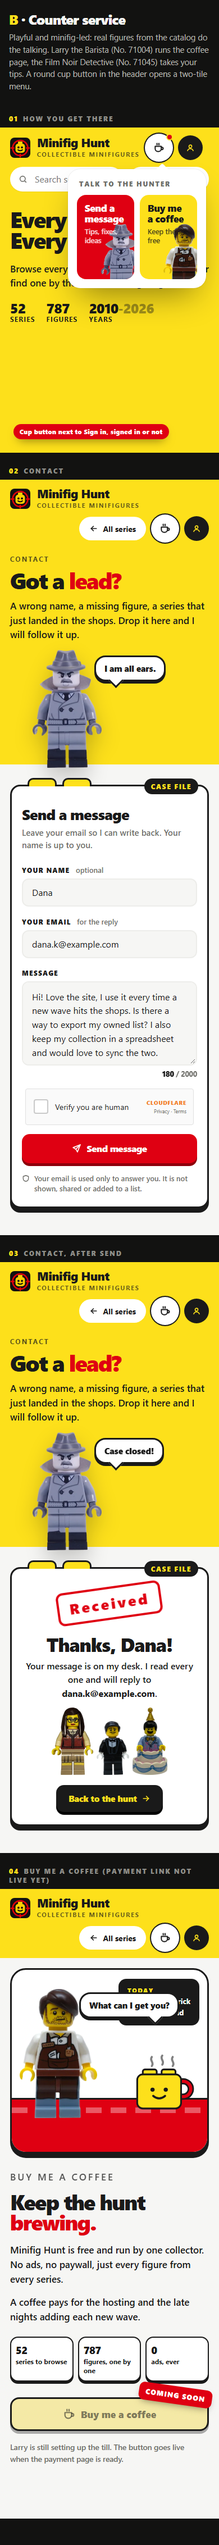
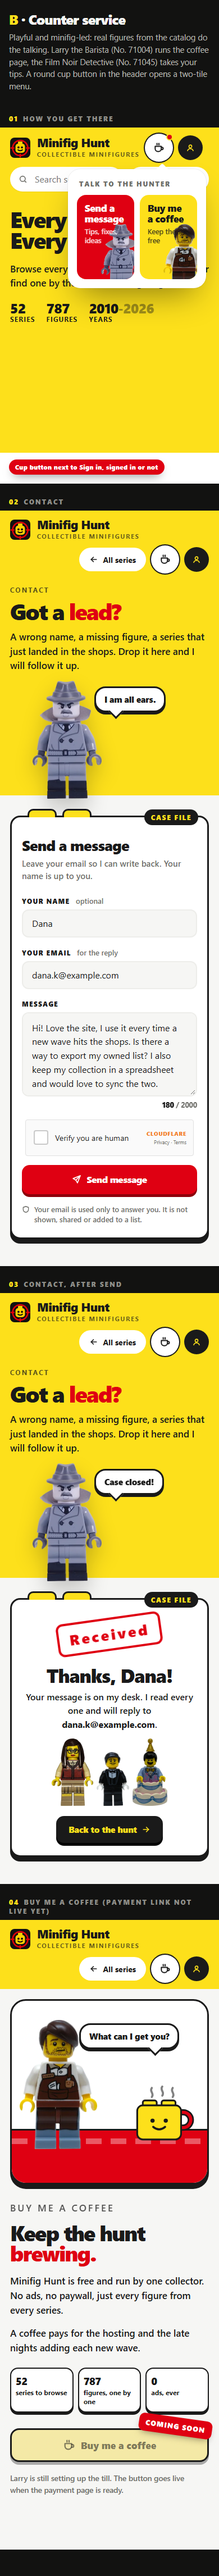
V2-15: fix overlaps and contrast in mockups, re-shoot
A: footer annotation no longer covers the Contact pill; Free, no ads chip
regains its ink fill. Phone: annotations drop into the flow, disabled coffee
button stays on one line, B hides the Today card under the speech bubble.

Changed region(s): [[0.0, 0.1556, 1.0, 0.9647], [0.0308, 0.0, 0.9538, 0.1245], [0.1231, 0.6535, 0.1538, 0.6846]]

diff --git a/mockups/V2-15/a.html b/mockups/V2-15/a.html
@@ -66,7 +66,9 @@ textarea.in { height:150px; padding:14px 16px; line-height:1.55; resize:vertical
   .ts { width:100%; max-width:300px; align-self:center; }
   .go { width:100%; }
   .soon { width:100%; justify-content:center; }
-  .ann { font-size:11px; }
+  .ann { font-size:11px; position:static; display:inline-block; margin:12px 16px 16px; }
+  .soon { white-space:nowrap; padding:0 14px; gap:8px; font-size:15px; }
+  .soon em { font-size:10px; padding:4px 7px; }
 }
 /* ---- Direction A CSS: this block is what would ship ---- */
 .a-foot { background:var(--ink); color:var(--white); }
@@ -113,6 +115,7 @@ textarea.in { height:150px; padding:14px 16px; line-height:1.55; resize:vertical
 .a-coffee p { font-size:16.5px; line-height:1.6; margin:0 0 14px; font-weight:500; max-width:56ch; }
 .a-coffee .facts { margin:20px 0 26px; }
 .a-coffee .facts .fact { background:var(--white); border:1px solid var(--grey-100); }
+.a-coffee .facts .fact.dark { background:var(--ink); color:var(--lego-yellow); border-color:var(--ink); }
 .a-coffee .hint2 { font-size:13.5px; font-weight:600; color:var(--grey-500); margin:12px 0 0; }
 .a-thanks { background:var(--lego-yellow); border-radius:24px; padding:28px; }
 .a-thanks h3 { margin:0 0 8px; font-size:20px; font-weight:800; letter-spacing:-.02em; }
@@ -130,7 +133,7 @@ textarea.in { height:150px; padding:14px 16px; line-height:1.55; resize:vertical
 </style></head>
 <body><div class="board">
 <div class="board-h"><div><h1><span>A</span> &middot; Catalog card</h1><p>Quiet and on-brand: the same yellow band and big headline as the catalog, one calm grey card per page. Both pages live in a new ink footer on every page, so they never compete with search in the header.</p></div></div>
-<p class="tag"><b>01</b>How you get there</p><div class="page"><main class="wrap"><div class="rule"><span><b>52 series</b></span><span>Newest first</span></div><div class="a-tease"><ul class="grid"><li class="tile"><a class="tile-link" href="#"><div class="art"><img src="../../app/public/cards/71053.png" alt=""></div></a><div class="meta"><div class="meta-row"><span class="num">No. 71053 &middot; 2026</span><span class="count-badge">12 figures</span></div><h2><a href="#">Shrek</a></h2></div></li><li class="tile"><a class="tile-link" href="#"><div class="art"><img src="../../app/public/cards/71052.png" alt=""></div></a><div class="meta"><div class="meta-row"><span class="num">No. 71052 &middot; 2026</span><span class="count-badge">12 figures</span></div><h2><a href="#">Series 29 Minifigures</a></h2></div></li><li class="tile"><a class="tile-link" href="#"><div class="art"><img src="../../app/public/cards/71051.png" alt=""></div></a><div class="meta"><div class="meta-row"><span class="num">No. 71051 &middot; 2026</span><span class="count-badge">12 figures</span></div><h2><a href="#">Series 28 Minifigures</a></h2></div></li></ul></div></main><footer class="a-foot"><div class="wrap"><a class="brand" href="#"><span class="brand-mark" aria-hidden="true"><img src="../../app/public/favicon.svg" alt="" width="36" height="36"></span><span><b>Minifig Hunt</b><small>Collectible Minifigures</small></span></a><nav aria-label="Site"><a href="#"><svg width="16" height="16" viewBox="0 0 24 24" fill="none" stroke="currentColor" stroke-width="2.4" stroke-linecap="round" stroke-linejoin="round" aria-hidden="true"><rect x="3" y="5" width="18" height="14" rx="3"/><path d="m4 7 8 6 8-6"/></svg>Contact</a><a class="cup" href="#"><svg width="16" height="16" viewBox="0 0 24 24" fill="none" stroke="currentColor" stroke-width="2.4" stroke-linecap="round" stroke-linejoin="round" aria-hidden="true"><path d="M4 9h13v5a6 6 0 0 1-6 6h-1a6 6 0 0 1-6-6V9Z"/><path d="M17 11h1.5a2.5 2.5 0 0 1 0 5H17"/><path d="M8 2.8c-.8 1 .8 2 0 3.2M12 2.8c-.8 1 .8 2 0 3.2"/></svg>Buy me a coffee</a></nav><div class="fine"><span>52 series &middot; 787 figures &middot; 2010-2026</span><span>Fan-made site, not affiliated with the LEGO Group.</span></div></div></footer><span class="ann" style="right:250px;bottom:118px">New footer, on every page</span></div>
+<p class="tag"><b>01</b>How you get there</p><div class="page"><main class="wrap"><div class="rule"><span><b>52 series</b></span><span>Newest first</span></div><div class="a-tease"><ul class="grid"><li class="tile"><a class="tile-link" href="#"><div class="art"><img src="../../app/public/cards/71053.png" alt=""></div></a><div class="meta"><div class="meta-row"><span class="num">No. 71053 &middot; 2026</span><span class="count-badge">12 figures</span></div><h2><a href="#">Shrek</a></h2></div></li><li class="tile"><a class="tile-link" href="#"><div class="art"><img src="../../app/public/cards/71052.png" alt=""></div></a><div class="meta"><div class="meta-row"><span class="num">No. 71052 &middot; 2026</span><span class="count-badge">12 figures</span></div><h2><a href="#">Series 29 Minifigures</a></h2></div></li><li class="tile"><a class="tile-link" href="#"><div class="art"><img src="../../app/public/cards/71051.png" alt=""></div></a><div class="meta"><div class="meta-row"><span class="num">No. 71051 &middot; 2026</span><span class="count-badge">12 figures</span></div><h2><a href="#">Series 28 Minifigures</a></h2></div></li></ul></div></main><footer class="a-foot"><div class="wrap"><a class="brand" href="#"><span class="brand-mark" aria-hidden="true"><img src="../../app/public/favicon.svg" alt="" width="36" height="36"></span><span><b>Minifig Hunt</b><small>Collectible Minifigures</small></span></a><nav aria-label="Site"><a href="#"><svg width="16" height="16" viewBox="0 0 24 24" fill="none" stroke="currentColor" stroke-width="2.4" stroke-linecap="round" stroke-linejoin="round" aria-hidden="true"><rect x="3" y="5" width="18" height="14" rx="3"/><path d="m4 7 8 6 8-6"/></svg>Contact</a><a class="cup" href="#"><svg width="16" height="16" viewBox="0 0 24 24" fill="none" stroke="currentColor" stroke-width="2.4" stroke-linecap="round" stroke-linejoin="round" aria-hidden="true"><path d="M4 9h13v5a6 6 0 0 1-6 6h-1a6 6 0 0 1-6-6V9Z"/><path d="M17 11h1.5a2.5 2.5 0 0 1 0 5H17"/><path d="M8 2.8c-.8 1 .8 2 0 3.2M12 2.8c-.8 1 .8 2 0 3.2"/></svg>Buy me a coffee</a></nav><div class="fine"><span>52 series &middot; 787 figures &middot; 2010-2026</span><span>Fan-made site, not affiliated with the LEGO Group.</span></div></div></footer><span class="ann" style="right:250px;bottom:150px">New footer, on every page</span></div>
 <p class="tag"><b>02</b>Contact</p><div class="page"><header class="band a-band"><div class="wrap"><div class="band-top"><a class="brand" href="#"><span class="brand-mark" aria-hidden="true"><img src="../../app/public/favicon.svg" alt="" width="36" height="36"></span><span><b>Minifig Hunt</b><small>Collectible Minifigures</small></span></a><a class="back" href="#"><svg width="16" height="16" viewBox="0 0 24 24" fill="none" stroke="currentColor" stroke-width="2.6" stroke-linecap="round" stroke-linejoin="round" aria-hidden="true"><path d="M19 12H5"/><path d="m11 6-6 6 6 6"/></svg><span class="back-t">All series</span></a><div class="acct"><button type="button" class="pill-in"><svg width="16" height="16" viewBox="0 0 24 24" fill="none" stroke="currentColor" stroke-width="2.4" stroke-linecap="round" stroke-linejoin="round" aria-hidden="true"><circle cx="12" cy="8.5" r="3.8"/><path d="M4.5 20c1.2-3.6 4-5.4 7.5-5.4s6.3 1.8 7.5 5.4"/></svg><span class="t">Sign in</span></button></div></div><div class="band-hero"><h1 class="big">Say <em>hello.</em></h1><div><p class="lede">Spotted a wrong name, a missing figure, or a series that is not here yet? Tell me, and I will fix it.</p></div></div></div></header><main class="wrap a-main"><section class="a-card"><h2>Send a message</h2><p class="sub">Everything here is optional except your email and the message.</p>
 <form class="cf " onsubmit="return false">
   <div class="row2">

diff --git a/mockups/V2-15/b.html b/mockups/V2-15/b.html
@@ -66,7 +66,9 @@ textarea.in { height:150px; padding:14px 16px; line-height:1.55; resize:vertical
   .ts { width:100%; max-width:300px; align-self:center; }
   .go { width:100%; }
   .soon { width:100%; justify-content:center; }
-  .ann { font-size:11px; }
+  .ann { font-size:11px; position:static; display:inline-block; margin:12px 16px 16px; }
+  .soon { white-space:nowrap; padding:0 14px; gap:8px; font-size:15px; }
+  .soon em { font-size:10px; padding:4px 7px; }
 }
 /* ---- Direction B CSS: this block is what would ship ---- */
 .b-cupbtn { flex:none; width:44px; height:44px; border-radius:50%; border:0; background:var(--white); color:var(--ink); display:grid; place-items:center;
@@ -164,7 +166,7 @@ textarea.in { height:150px; padding:14px 16px; line-height:1.55; resize:vertical
   .b-counter { height:330px; }
   .b-counter img.larry { height:230px; left:14px; }
   .b-counter svg.mug { width:124px; right:18px; }
-  .b-counter .menu { right:14px; top:16px; }
+  .b-counter .menu { display:none; }
   .b-pays { grid-template-columns:1fr 1fr 1fr; gap:8px; }
   .b-pays li { padding:10px 8px; font-size:12px; }
   .b-pays li b { font-size:18px; }

diff --git a/mockups/V2-15/c.html b/mockups/V2-15/c.html
@@ -66,7 +66,9 @@ textarea.in { height:150px; padding:14px 16px; line-height:1.55; resize:vertical
   .ts { width:100%; max-width:300px; align-self:center; }
   .go { width:100%; }
   .soon { width:100%; justify-content:center; }
-  .ann { font-size:11px; }
+  .ann { font-size:11px; position:static; display:inline-block; margin:12px 16px 16px; }
+  .soon { white-space:nowrap; padding:0 14px; gap:8px; font-size:15px; }
+  .soon em { font-size:10px; padding:4px 7px; }
 }
 /* ---- Direction C CSS: this block is what would ship ---- */
 .c-about { flex:none; display:inline-flex; align-items:center; height:44px; padding:0 4px; font-size:15px; font-weight:800; color:var(--ink);

diff --git a/mockups/V2-15/build.py b/mockups/V2-15/build.py
@@ -173,7 +173,9 @@ textarea.in { height:150px; padding:14px 16px; line-height:1.55; resize:vertical
   .ts { width:100%; max-width:300px; align-self:center; }
   .go { width:100%; }
   .soon { width:100%; justify-content:center; }
-  .ann { font-size:11px; }
+  .ann { font-size:11px; position:static; display:inline-block; margin:12px 16px 16px; }
+  .soon { white-space:nowrap; padding:0 14px; gap:8px; font-size:15px; }
+  .soon em { font-size:10px; padding:4px 7px; }
 }
 """
 
@@ -245,6 +247,7 @@ A_CSS = """
 .a-coffee p { font-size:16.5px; line-height:1.6; margin:0 0 14px; font-weight:500; max-width:56ch; }
 .a-coffee .facts { margin:20px 0 26px; }
 .a-coffee .facts .fact { background:var(--white); border:1px solid var(--grey-100); }
+.a-coffee .facts .fact.dark { background:var(--ink); color:var(--lego-yellow); border-color:var(--ink); }
 .a-coffee .hint2 { font-size:13.5px; font-weight:600; color:var(--grey-500); margin:12px 0 0; }
 .a-thanks { background:var(--lego-yellow); border-radius:24px; padding:28px; }
 .a-thanks h3 { margin:0 0 8px; font-size:20px; font-weight:800; letter-spacing:-.02em; }
@@ -285,7 +288,7 @@ A_SIDE = f"""
 
 A_F1 = (f'<div class="page"><main class="wrap"><div class="rule"><span><b>{N_SERIES} series</b></span><span>Newest first</span></div>'
         f'<div class="a-tease"><ul class="grid">{tiles()}</ul></div></main>{A_FOOT}'
-        '<span class="ann" style="right:250px;bottom:118px">New footer, on every page</span></div>')
+        '<span class="ann" style="right:250px;bottom:150px">New footer, on every page</span></div>')
 
 A_F2 = (f'<div class="page">{a_band("Say <em>hello.</em>", "Spotted a wrong name, a missing figure, or a series that is not here yet? Tell me, and I will fix it.")}'
         f'<main class="wrap a-main"><section class="a-card"><h2>Send a message</h2>'
@@ -408,7 +411,7 @@ B_CSS = """
   .b-counter { height:330px; }
   .b-counter img.larry { height:230px; left:14px; }
   .b-counter svg.mug { width:124px; right:18px; }
-  .b-counter .menu { right:14px; top:16px; }
+  .b-counter .menu { display:none; }
   .b-pays { grid-template-columns:1fr 1fr 1fr; gap:8px; }
   .b-pays li { padding:10px 8px; font-size:12px; }
   .b-pays li b { font-size:18px; }
